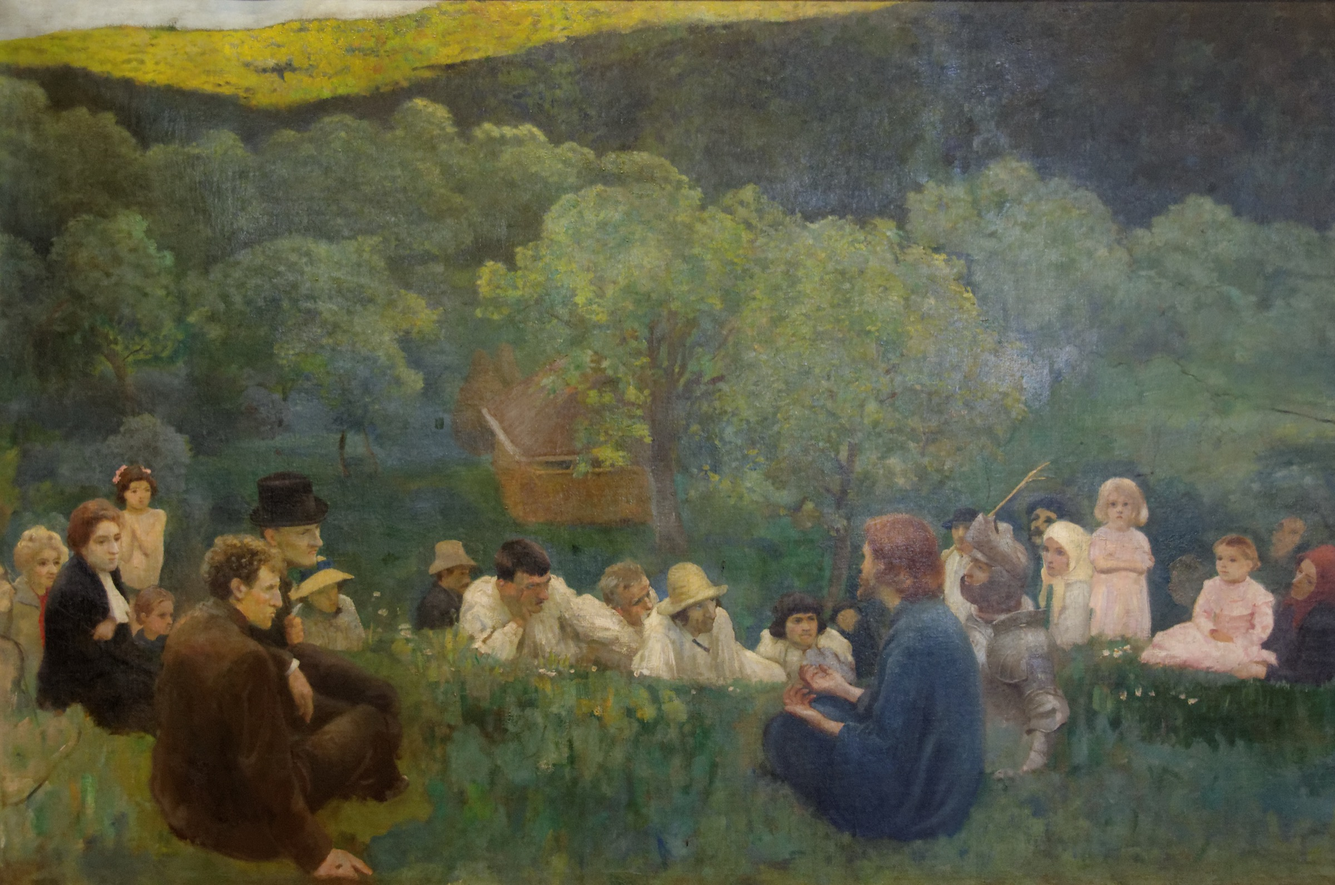
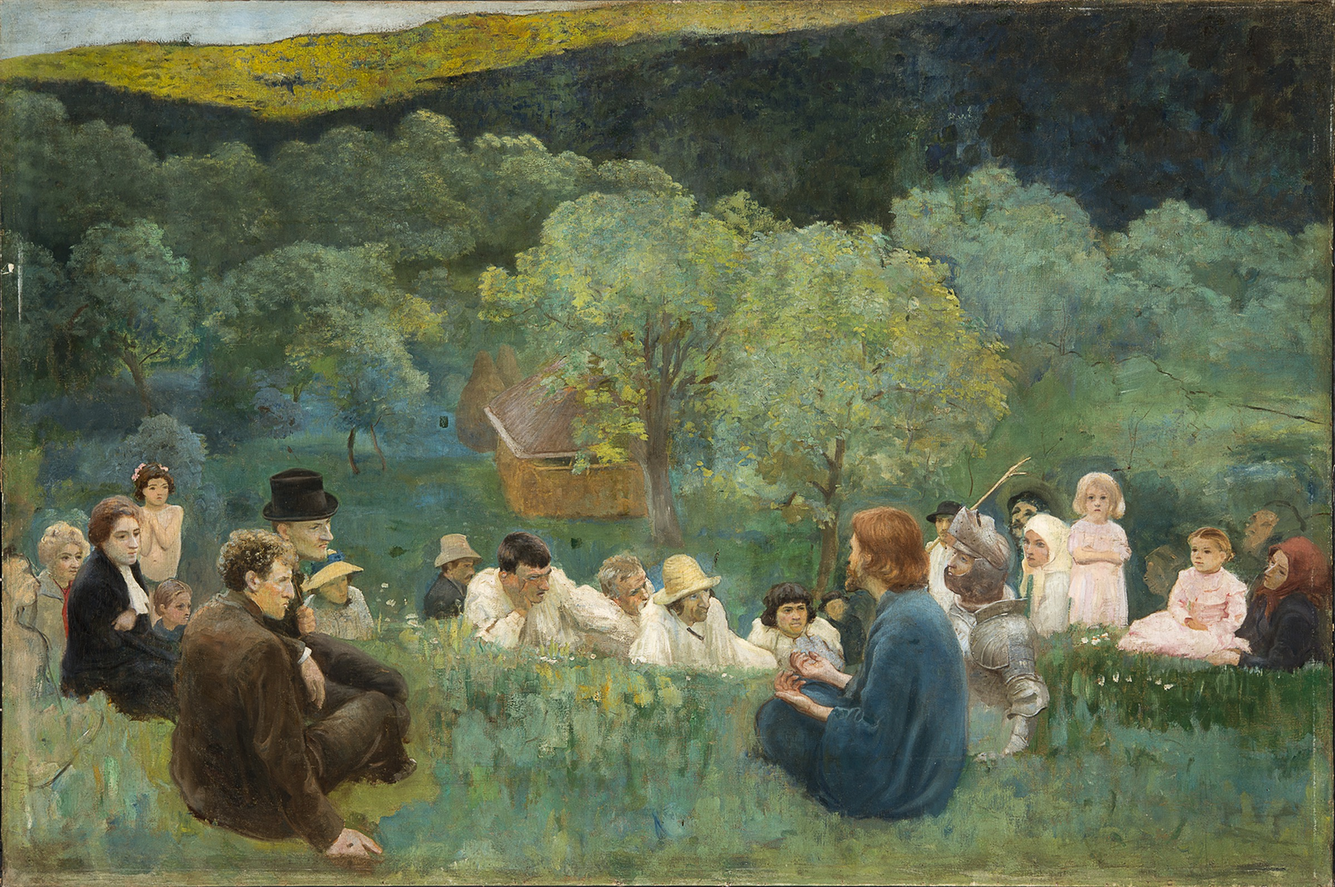
Add three found works, upgrade three images, square the corners
Cézár Herrer et son épouse (1904), Départ and Béla Iványi-Grünwald's Au
milieu des sommets (Bércek között, 1901) were missing from the first pass;
Lucas found sources for all three. The entry now holds fifteen of the
sixteen works on his list.

Three existing images are replaced by brighter reproductions he picked. Le
Sermon sur la montagne keeps its resolution and gains a lot of colour; the
other two trade pixels for luminosity — Fête de mai drops from 2328px to
600px, which is his call to make and a one-line revert.

The credits move to naming the holding museum, since the CC-BY photographs
they attributed are no longer the images being shown.

artSentence now names the artists actually present rather than the entry's
default, so an exhibition with one contemporary in it no longer describes
itself as fifteen works by the one painter.

Images lose the site-wide 6px radius: a painting has square corners, and
rounding them crops the canvas at each one. Scoped to the art tiles and the
lightbox — images in posts are untouched.

diff --git a/src/utils/journal.ts b/src/utils/journal.ts
@@ -319,7 +319,16 @@ export function workAlt(work: ArtWork, data: ArtData): string {
 export function artSentence(data: ArtData): string {
   const n = data.works.length
   let sentence = `${n} ${n > 1 ? 'œuvres' : 'œuvre'}`
-  if (data.artist) sentence += ` de ${plain(data.artist)}`
+
+  // Named from the works actually present, not from the entry's default
+  // artist: a monograph that includes one contemporary should not describe
+  // itself as fifteen works by the one painter.
+  const artists = [...new Set(data.works.map((work) => workArtist(work, data)).filter(Boolean))]
+  if (artists.length === 1) sentence += ` de ${plain(artists[0]!)}`
+  else if (artists.length === 2) sentence += ` de ${plain(artists[0]!)} et ${plain(artists[1]!)}`
+  else if (artists.length > 2) {
+    sentence += ` de ${plain(artists[0]!)} et ${artists.length - 1} autres artistes`
+  }
   sentence += '.'
   // The venue is appended as its own fragment rather than folded in with a
   // preposition: "au Petit Palais" is right but "au Galerie …" is not, and the

diff --git a/src/styles/styles.css b/src/styles/styles.css
@@ -672,13 +672,16 @@ li {
 
 /* Undoes the block-image treatment .content gives every img: the centring
    margins would break the row, and the tile is the layout unit now. The
-   hairline stays — a pale sky against a pale page needs an edge. */
+   hairline stays — a pale sky against a pale page needs an edge — but the
+   6px radius goes: a painting has square corners, and rounding them crops
+   the canvas at each one. */
 .content .art-tile img {
   display: block;
   width: 100%;
   height: auto;
   margin: 0;
   border: 1px solid var(--color-code-border);
+  border-radius: 0;
 }
 
 .art-tile:hover img,
@@ -759,6 +762,8 @@ html:has(.art-lightbox[open]) {
   max-height: calc(100vh - 10rem);
   object-fit: contain;
   cursor: default;
+  /* Square, like the tiles and like the canvas. */
+  border-radius: 0;
 }
 
 .art-stage-caption {

diff --git a/src/content/journal/karoly-ferenczy.md b/src/content/journal/karoly-ferenczy.md
@@ -16,7 +16,7 @@ works:
     title: "Le Sermon sur la montagne I"
     year: 1896
     medium: "Huile sur toile"
-    credit: "Galerie nationale hongroise, Budapest — photo Yelkrokoyade (CC BY-SA 3.0)"
+    credit: "Galerie nationale hongroise, Budapest"
   - src: "./karoly-ferenczy/chevaux-ambiance-du-soir.jpg"
     title: "Chevaux (Ambiance du soir)"
     year: 1899
@@ -30,17 +30,22 @@ works:
   - src: "./karoly-ferenczy/jeunes-garcons-se-baignant.jpg"
     title: "Jeunes garçons se baignant"
     medium: "Huile sur toile"
-    credit: "Galerie nationale hongroise, Budapest — photo Dguendel (CC BY 4.0)"
+    credit: "Galerie nationale hongroise, Budapest"
   - src: "./karoly-ferenczy/deposition-de-croix.jpg"
     title: "La Déposition de croix"
     year: 1903
     medium: "Huile sur toile"
     credit: "Galerie nationale hongroise, Budapest"
+  - src: "./karoly-ferenczy/herrer-et-son-epouse.jpg"
+    title: "Cézár Herrer et son épouse"
+    year: 1904
+    medium: "Huile sur toile"
+    credit: "Wikimedia Commons"
   - src: "./karoly-ferenczy/fete-de-mai.jpg"
     title: "Fête de mai"
     year: 1906
     medium: "Huile sur toile"
-    credit: "Galerie nationale hongroise, Budapest — photo Dguendel (CC BY 4.0)"
+    credit: "Galerie nationale hongroise, Budapest"
   - src: "./karoly-ferenczy/ruisseau.jpg"
     title: "Ruisseau I"
     medium: "Huile sur toile"
@@ -61,6 +66,15 @@ works:
     credit: "Galerie nationale hongroise, Budapest"
   - src: "./karoly-ferenczy/au-sommet-de-la-colline.jpg"
     title: "Au sommet de la colline"
+    year: 1901
+    medium: "Huile sur toile"
+    credit: "Galerie nationale hongroise, Budapest"
+  - src: "./karoly-ferenczy/depart.jpg"
+    title: "Départ"
+    credit: "Photographié au Petit Palais — artexpos.org"
+  - src: "./karoly-ferenczy/au-milieu-des-sommets.jpg"
+    title: "Au milieu des sommets"
+    artist: "Béla Iványi-Grünwald"
     year: 1901
     medium: "Huile sur toile"
     credit: "Galerie nationale hongroise, Budapest"
